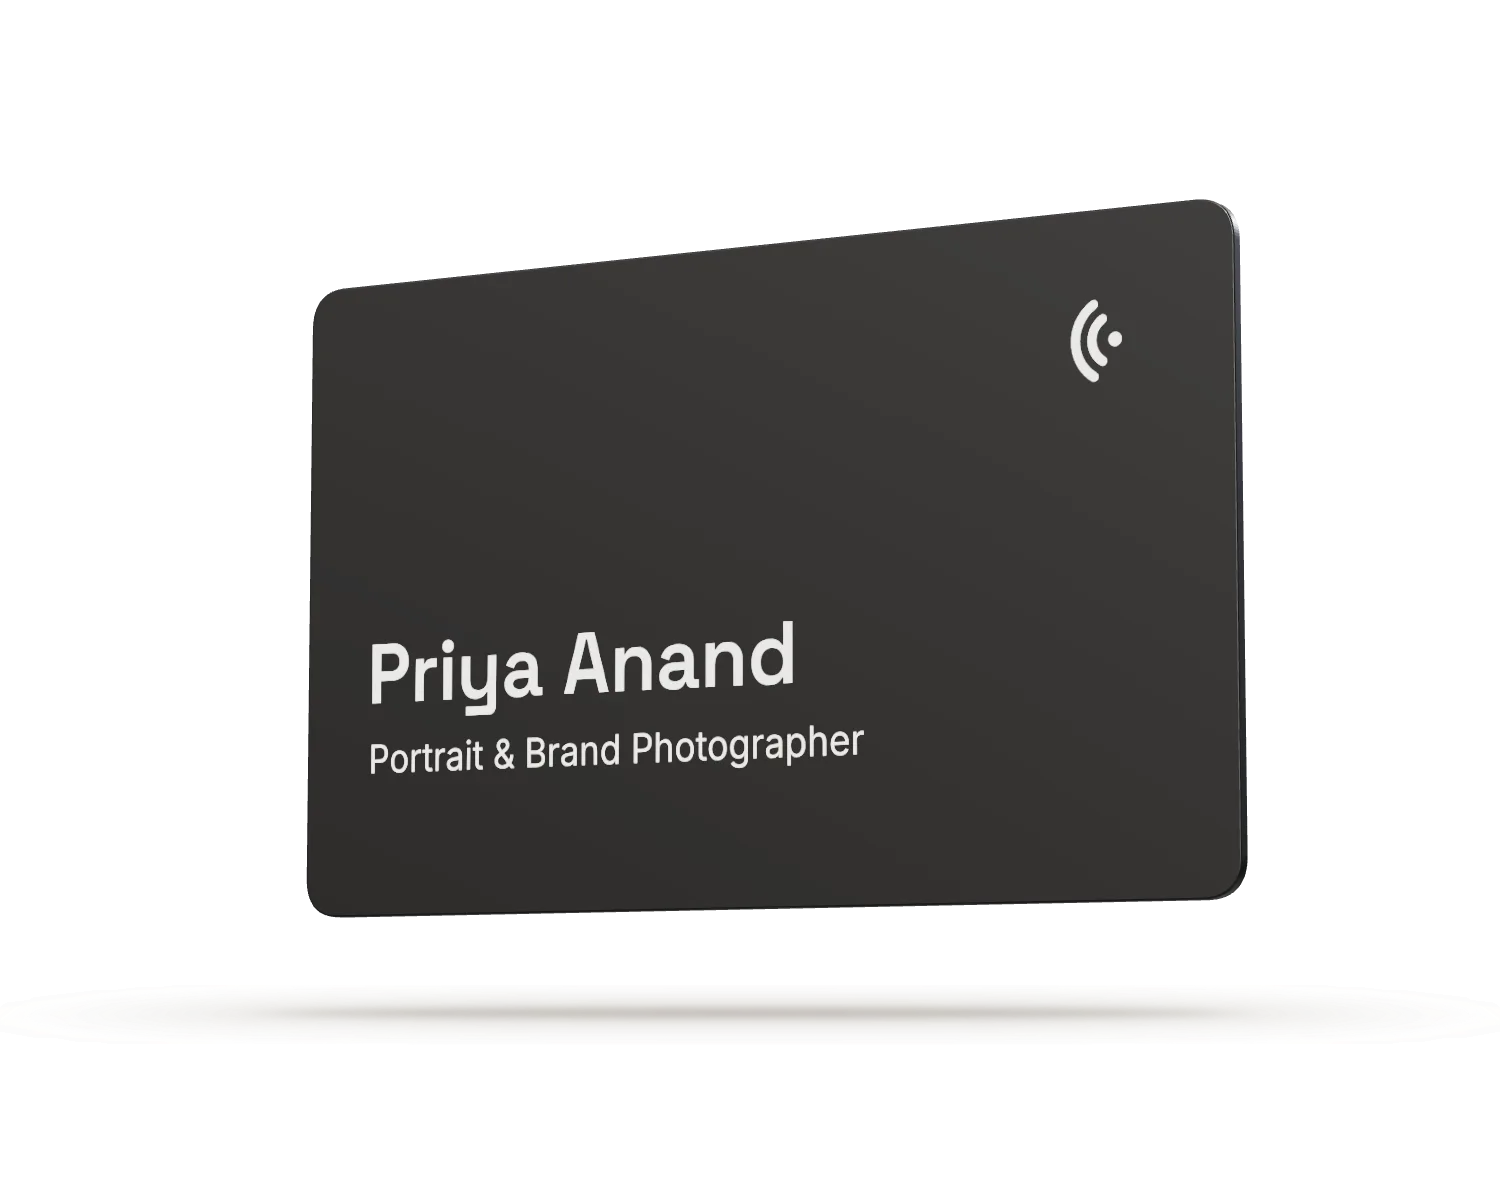
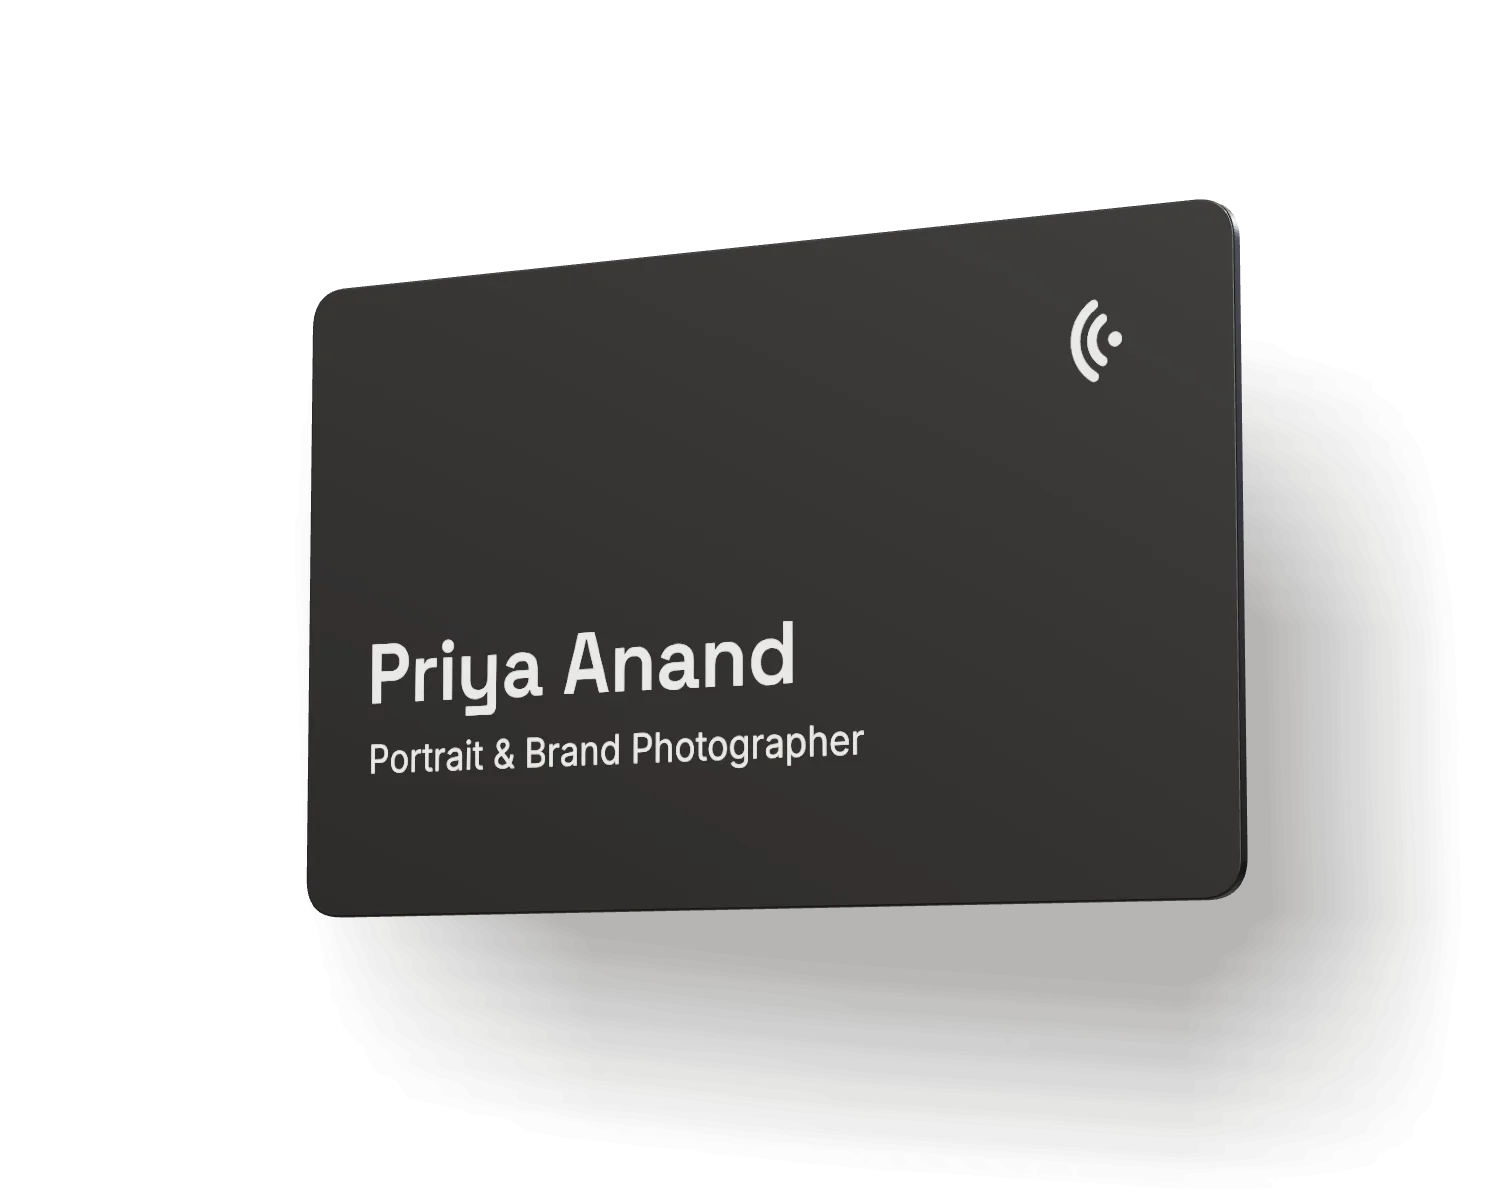
feat(hero): moving fabric shadows across the hero, real cast shadow for the card
- FabricShade: light through a sheer curtain over the whole hero, a small
  plain-WebGL shader (quarter resolution, 30 fps, paused off screen) with
  a matching still that paints first; replaces the leaf shadow
- The hero runs up behind the navbar, which is see-through only at the
  top of the homepage
- The 3D card casts a soft shadow on an invisible wall behind it, which
  turns and narrows with the card; replaces the flat line under it and
  the white glow
- Card float-in starts at 1% opacity so it counts as painted at once
  (mobile LCP back to about 1 s)

Claude-Session: https://claude.ai/code/session_01RXhqBJTb3XXQtQqq3tabda

Changed region(s): [[0.184, 0.3392, 0.9507, 0.9558]]

diff --git a/components/marketing/FabricShade.tsx b/components/marketing/FabricShade.tsx
@@ -1,0 +1,150 @@
+"use client";
+
+import { useEffect, useRef, useState } from "react";
+
+/* Light through a sheer curtain, falling across the whole hero: soft folds
+   of shadow that drift and billow slowly and never quite repeat. A still
+   frame (public/home/fabric-shade.webp, rendered from this same shader at
+   START) paints first and is the reduced-motion view; once the page is
+   idle a tiny WebGL shader takes over and keeps it moving. It draws at a
+   fraction of the screen's resolution (the shadows are soft, so upscaling
+   costs nothing visible), at most 30 times a second, and only while the
+   hero is on screen. No three.js: about 2 KB of plain WebGL. */
+
+// Shader time the still was rendered at, so the swap is seamless.
+const START = 40;
+
+const VERT = `attribute vec2 p;void main(){gl_Position=vec4(p,0.,1.);}`;
+
+const FRAG = `precision mediump float;
+uniform vec2 r;
+uniform float t;
+float h(vec2 p){return fract(sin(dot(p,vec2(127.1,311.7)))*43758.5453);}
+float n(vec2 p){vec2 i=floor(p),f=fract(p);f=f*f*(3.-2.*f);
+return mix(mix(h(i),h(i+vec2(1,0)),f.x),mix(h(i+vec2(0,1)),h(i+vec2(1,1)),f.x),f.y);}
+float fbm(vec2 p){float v=0.,a=.5;for(int i=0;i<4;i++){v+=a*n(p);p=p*2.03+vec2(1.7,9.2);a*=.5;}return v;}
+void main(){
+  vec2 uv=gl_FragCoord.xy/r.y;
+  // The breeze: a slow warp that bends the folds and moves them about.
+  float w=fbm(vec2(uv.x*.9-t*.035,uv.y*.45+t*.012));
+  float w2=fbm(vec2(uv.x*.5+t*.02,uv.y*.3-t*.01)+w);
+  // Folds: long, slightly slanted bands, like a hanging curtain.
+  float x=uv.x+uv.y*.28+w2*1.15;
+  float f=sin(x*6.5+t*.16)*.55+sin(x*11.3-t*.11+w*3.)*.3+sin(x*23.-t*.07+w2*5.)*.15;
+  f=smoothstep(-.1,1.,f);
+  // Broad patches of light and shade drifting over the folds.
+  float l=smoothstep(.3,.75,fbm(uv*.75+vec2(t*.03,-t*.018)));
+  // Mostly light, with the folds and patches going properly dark.
+  float shade=smoothstep(.22,.95,f*.6+(1.-l)*.4);
+  gl_FragColor=vec4(vec3(1.-shade),1.);
+}`;
+
+export default function FabricShade() {
+  const canvasRef = useRef<HTMLCanvasElement>(null);
+  const [live, setLive] = useState(false);
+
+  useEffect(() => {
+    const canvas = canvasRef.current;
+    if (!canvas) return;
+    if (window.matchMedia("(prefers-reduced-motion: reduce)").matches) return;
+
+    let cancelled = false;
+    let raf = 0;
+    let visible = true;
+    const cleanups: (() => void)[] = [];
+
+    const boot = () => {
+      if (cancelled) return;
+      const gl = canvas.getContext("webgl", { alpha: false, antialias: false, depth: false, powerPreference: "low-power" });
+      if (!gl) return;
+      const shader = (type: number, src: string) => {
+        const s = gl.createShader(type)!;
+        gl.shaderSource(s, src);
+        gl.compileShader(s);
+        return s;
+      };
+      const prog = gl.createProgram()!;
+      gl.attachShader(prog, shader(gl.VERTEX_SHADER, VERT));
+      gl.attachShader(prog, shader(gl.FRAGMENT_SHADER, FRAG));
+      gl.linkProgram(prog);
+      if (!gl.getProgramParameter(prog, gl.LINK_STATUS)) return;
+      gl.useProgram(prog);
+      gl.bindBuffer(gl.ARRAY_BUFFER, gl.createBuffer());
+      gl.bufferData(gl.ARRAY_BUFFER, new Float32Array([-1, -1, 3, -1, -1, 3]), gl.STATIC_DRAW);
+      const loc = gl.getAttribLocation(prog, "p");
+      gl.enableVertexAttribArray(loc);
+      gl.vertexAttribPointer(loc, 2, gl.FLOAT, false, 0, 0);
+      const uR = gl.getUniformLocation(prog, "r");
+      const uT = gl.getUniformLocation(prog, "t");
+
+      // A quarter of the CSS size is plenty for shadows this soft.
+      const resize = () => {
+        canvas.width = Math.max(1, Math.round(canvas.clientWidth * 0.25));
+        canvas.height = Math.max(1, Math.round(canvas.clientHeight * 0.25));
+        gl.viewport(0, 0, canvas.width, canvas.height);
+      };
+      resize();
+      const ro = new ResizeObserver(resize);
+      ro.observe(canvas);
+      cleanups.push(() => ro.disconnect());
+
+      let t = START;
+      let last = performance.now();
+      let lastDraw = 0;
+      const draw = () => {
+        gl.uniform2f(uR, canvas.width, canvas.height);
+        gl.uniform1f(uT, t);
+        gl.drawArrays(gl.TRIANGLES, 0, 3);
+      };
+      const tick = (now: number) => {
+        raf = requestAnimationFrame(tick);
+        t += Math.min((now - last) / 1000, 0.1);
+        last = now;
+        if (now - lastDraw < 33) return;
+        lastDraw = now;
+        draw();
+      };
+      const sync = () => {
+        cancelAnimationFrame(raf);
+        if (visible && !document.hidden) {
+          last = performance.now();
+          raf = requestAnimationFrame(tick);
+        }
+      };
+      draw();
+      setLive(true);
+      sync();
+
+      const io = new IntersectionObserver(([e]) => {
+        visible = e.isIntersecting;
+        sync();
+      });
+      io.observe(canvas);
+      document.addEventListener("visibilitychange", sync);
+      cleanups.push(() => {
+        io.disconnect();
+        document.removeEventListener("visibilitychange", sync);
+        cancelAnimationFrame(raf);
+      });
+    };
+
+    const go = () => (window.requestIdleCallback ?? ((cb: () => void) => window.setTimeout(cb, 300)))(boot, { timeout: 3000 });
+    if (document.readyState === "complete") go();
+    else window.addEventListener("load", go, { once: true });
+
+    return () => {
+      cancelled = true;
+      window.removeEventListener("load", go);
+      cleanups.forEach((c) => c());
+    };
+  }, []);
+
+  return (
+    <div aria-hidden className="fabric-shade pointer-events-none absolute inset-0">
+      <canvas
+        ref={canvasRef}
+        className={`h-full w-full transition-opacity duration-1000 ${live ? "opacity-100" : "opacity-0"}`}
+      />
+    </div>
+  );
+}

diff --git a/components/marketing/Hero.tsx b/components/marketing/Hero.tsx
@@ -2,6 +2,7 @@ import { preload } from "react-dom";
 import { Check } from "lucide-react";
 import Button from "@/components/ui/Button";
 import Card3D from "@/components/marketing/card3d/Card3D";
+import FabricShade from "@/components/marketing/FabricShade";
 import { CARD_VARIANTS } from "@/lib/pricing";
 
 const FROM_PRICE = Math.min(...CARD_VARIANTS.map((v) => v.price)).toLocaleString("en-IN");
@@ -9,19 +10,20 @@ const FROM_PRICE = Math.min(...CARD_VARIANTS.map((v) => v.price)).toLocaleString
 const FACTS = [`From ₹${FROM_PRICE}, one payment`, "Free delivery in 5 to 7 days", "Works with iPhone and Android"];
 
 /* First screen: what it is and the one action on the left; the card itself
-   on the right, turning slowly under a soft studio light, with the shadow
-   of a leafy branch drifting across the wall behind it. On load the card
-   floats up into place out of a blur (CSS, on its still, so it plays on the
-   first paint); the live 3D scene takes over once the page is idle. The
-   hero stops short of the fold so the next section's band peeks in. */
+   on the right, turning slowly and casting a soft shadow on the wall
+   behind it, while light through a sheer curtain drifts across the whole
+   hero (it runs up behind the see-through navigation bar too). On load the
+   card floats up into place out of a blur (CSS, on its still, so it plays
+   on the first paint); the live 3D scene takes over once the page is idle.
+   The hero stops short of the fold so the next section's band peeks in. */
 export default function Hero() {
-  // The leaf shadow is a CSS background, which the browser would otherwise
-  // find only after the stylesheet; it covers the hero, so it counts as the
-  // page's largest paint. It's 8 KB.
-  preload("/home/hero-shade.webp", { as: "image", fetchPriority: "high" });
+  // The fabric shadow's still is a CSS background, which the browser would
+  // otherwise find only after the stylesheet; it covers the hero, so it
+  // counts as the page's largest paint. It's 4 KB.
+  preload("/home/fabric-shade.webp", { as: "image", fetchPriority: "high" });
   return (
-    <section id="hero" className="relative overflow-clip">
-      <div aria-hidden className="hero-shade pointer-events-none absolute inset-0" />
+    <section id="hero" className="relative -mt-16 overflow-clip pt-16 md:-mt-[4.5rem] md:pt-[4.5rem]">
+      <FabricShade />
       <div className="container-page relative grid items-center gap-y-4 pt-10 pb-12 md:pt-14 lg:min-h-[calc(100svh-4.5rem-clamp(7rem,20svh,12rem))] lg:grid-cols-12 lg:gap-x-8 lg:py-8">
         <div className="lg:col-span-6">
           <p className="fade-in text-text-secondary mb-5 text-[0.9375rem] font-[500]" style={{ "--i": 0 } as React.CSSProperties}>
@@ -65,9 +67,7 @@ export default function Hero() {
         {/* The card's canvas runs out to the edge of the screen on the right,
             so the turning card has room and is never cut off. */}
         <div className="relative lg:col-span-6 lg:-mr-10 xl:-mr-[min(12rem,max(2.5rem,calc(50vw-35.5rem)))]">
-          {/* Soft studio light behind the card: a pale pool, no colour. */}
-          <div aria-hidden className="hero-light pointer-events-none absolute inset-[-10%]" />
-          <div className="hero-card relative">
+          <div className="hero-card feather relative">
             <Card3D
               poster="/cards/hero-card.webp"
               posterAlt="A matte black Unitouch NFC business card printed with the owner's name, Priya Anand, and her title"

diff --git a/components/marketing/card3d/scene.ts b/components/marketing/card3d/scene.ts
@@ -1,8 +1,16 @@
 /* The hero's 3D Unitouch card. Loaded with a dynamic import only after the
    page is interactive (Card3D.tsx), so none of this is in the first-load
    bundle. */
-import { Group, PerspectiveCamera } from "three";
-import { W, H, buildCard, contactShadow, createStudio, type CardFinish } from "./parts";
+import {
+  DirectionalLight,
+  Group,
+  Mesh,
+  PerspectiveCamera,
+  PlaneGeometry,
+  ShadowMaterial,
+  VSMShadowMap,
+} from "three";
+import { W, buildCard, createStudio, type CardFinish } from "./parts";
 
 export interface CardSceneOptions {
   /** Radians per second of the spin. Negative turns the other way. */
@@ -59,9 +67,30 @@ export function createCardScene(canvas: HTMLCanvasElement, opts: CardSceneOption
   const card = buildCard(renderer, { name, title, finish, url: "https://www.unitouch.in/u/priya" });
   spin.add(card.group);
 
-  const shadow = contactShadow(W * 1.7, H * 0.7);
-  shadow.mesh.position.y = -H / 2 - 0.22;
-  scene.add(shadow.mesh);
+  /* The card's shadow, cast onto a wall a little behind it (an invisible
+     plane that shows only the shadow), from a soft light up and to the
+     left. It turns, narrows and stretches with the card, like a real
+     object in front of a wall. Variance shadow maps at low resolution keep
+     it very soft; the light adds no brightness, only the shadow. */
+  renderer.shadowMap.enabled = true;
+  renderer.shadowMap.type = VSMShadowMap;
+  card.group.traverse((o) => {
+    if ((o as Mesh).isMesh) o.castShadow = true;
+  });
+  const sun = new DirectionalLight(0xffffff, 0);
+  sun.position.set(-1.1, 1.5, 5);
+  sun.castShadow = true;
+  sun.shadow.mapSize.set(256, 256);
+  sun.shadow.radius = 14;
+  sun.shadow.blurSamples = 20;
+  Object.assign(sun.shadow.camera, { left: -3, right: 3, top: 3, bottom: -3, near: 0.5, far: 12 });
+  scene.add(sun);
+  const wallGeo = new PlaneGeometry(40, 40);
+  const wallMat = new ShadowMaterial({ color: 0x1c1712, opacity: 0.3 });
+  const wall = new Mesh(wallGeo, wallMat);
+  wall.position.z = -1.4;
+  wall.receiveShadow = true;
+  scene.add(wall);
 
   const ready = card.ready.then(() => render());
 
@@ -107,10 +136,6 @@ export function createCardScene(canvas: HTMLCanvasElement, opts: CardSceneOption
     const turn = eased(phase) + dragX;
     spin.rotation.y = turn;
     sway.position.y = still ? 0 : Math.sin(t * 0.8) * 0.04;
-    // The shadow tightens when the card turns edge-on and as it lifts.
-    const face = Math.abs(Math.cos(turn));
-    shadow.mesh.scale.set(0.45 + 0.55 * face, 1, 1);
-    shadow.mat.opacity = 0.7 + 0.3 * face - sway.position.y * 2;
     renderer.render(scene, camera);
   }
 
@@ -153,7 +178,9 @@ export function createCardScene(canvas: HTMLCanvasElement, opts: CardSceneOption
       running = false;
       cancelAnimationFrame(frame);
       card.dispose();
-      shadow.dispose();
+      sun.shadow.dispose();
+      wallGeo.dispose();
+      wallMat.dispose();
       studio.dispose();
     },
   };

diff --git a/app/globals.css b/app/globals.css
@@ -261,25 +261,15 @@ p {
 /* Hero arrival: the card floats up into place out of a soft blur, tilting
    back to rest, while its light pool fades in. Opacity and filter only on the
    card's wrapper; the headline (the page's main content) paints at once. */
-.hero-light {
-  background: radial-gradient(closest-side, rgba(255, 255, 255, 0.85), rgba(255, 255, 255, 0) 72%);
-}
-
-/* Sunlight through a branch onto the wall behind the hero: a soft, blurred
-   leaf shadow (a still image, multiplied onto the ground) that sways
-   slowly, as if in a breeze. Transform only, so it costs nothing. */
-.hero-shade {
-  background: url("/home/hero-shade.webp") right top / auto 115% no-repeat;
-  opacity: 0.2;
+/* Light through a sheer curtain across the whole hero (FabricShade.tsx):
+   multiplied onto the ground, so its white is invisible and only the folds
+   of shadow show. The still is laid out exactly as the shader draws it
+   (scaled to the height, from the bottom left), so the live version takes
+   over without a jump. */
+.fabric-shade {
+  background: url("/home/fabric-shade.webp") left bottom / auto 100% no-repeat;
+  opacity: 0.32;
   mix-blend-mode: multiply;
-  transform-origin: 100% 0;
-}
-
-@media (max-width: 1023px) {
-  .hero-shade {
-    background-size: auto 70%;
-    opacity: 0.14;
-  }
 }
 
 @media (prefers-reduced-motion: no-preference) {
@@ -287,28 +277,15 @@ p {
     animation: card-float-in 1600ms var(--ease-expo) 150ms both;
     transform-origin: 50% 80%;
   }
-
-  html.js .hero-light {
-    animation: fade 1800ms var(--ease-out) 100ms both;
-  }
-
-  .hero-shade {
-    animation: leaf-sway 11s ease-in-out infinite alternate;
-  }
 }
 
-@keyframes leaf-sway {
-  from {
-    transform: rotate(-1.2deg) translate3d(0.6%, -0.4%, 0);
-  }
-  to {
-    transform: rotate(1deg) translate3d(-0.8%, 0.6%, 0);
-  }
-}
 
+/* Starts at 1% rather than 0 opacity: browsers don't count a fully
+   transparent paint, so from 0 the card (the hero's largest paint on a
+   phone) would only register once the animation ended. */
 @keyframes card-float-in {
   from {
-    opacity: 0;
+    opacity: 0.01;
     filter: blur(14px);
     transform: perspective(1200px) translate3d(0, 90px, 0) rotateX(22deg) scale(0.92);
   }

diff --git a/components/marketing/Navbar.tsx b/components/marketing/Navbar.tsx
@@ -26,6 +26,17 @@ export default function Navbar() {
   const [menuOpen, setMenuOpen] = useState(false);
   // null = not checked yet: render neither state, so nothing flashes.
   const [signedIn, setSignedIn] = useState<boolean | null>(null);
+  /* At the very top of the homepage the bar is see-through, so the hero's
+     moving shadows run up behind it; it turns solid once you scroll. */
+  const [atTop, setAtTop] = useState(true);
+
+  useEffect(() => {
+    if (!onHome) return;
+    const update = () => setAtTop(window.scrollY < 8);
+    update();
+    window.addEventListener("scroll", update, { passive: true });
+    return () => window.removeEventListener("scroll", update);
+  }, [onHome]);
 
   useEffect(() => {
     const supabase = createSupabaseBrowserClient();
@@ -74,7 +85,11 @@ export default function Navbar() {
     );
 
   return (
-    <header className="bg-bg-base sticky top-0 z-50">
+    <header
+      className={`sticky top-0 z-50 transition-colors duration-500 ${
+        onHome && atTop && !menuOpen ? "bg-transparent" : "bg-bg-base"
+      }`}
+    >
       <div className="container-page flex h-16 items-center justify-between gap-6 md:h-[4.5rem]">
         <Link href="/" onClick={handleLogoClick} className="flex items-center gap-2.5" aria-label="Unitouch home">
           <Image src="/brand/u-mark-ink.png" alt="" width={22} height={25} priority />

diff --git a/CLAUDE.md b/CLAUDE.md
@@ -71,10 +71,13 @@ fail or are skipped, and everything else works.
 
 ## What's built
 
-**Marketing homepage** (`app/(marketing)/page.tsx`): Hero (3D card, a
-blurred leaf shadow `public/home/hero-shade.webp` swaying on the wall
-behind it, preloaded because it's the LCP element; the hero stops short of
-the fold so HowItWorks' darker rounded band peeks in), HowItWorks (three
+**Marketing homepage** (`app/(marketing)/page.tsx`): Hero (3D card that
+casts a soft shadow on an invisible wall behind it; full-bleed moving
+"light through a sheer curtain" shadows from `FabricShade.tsx`, a tiny
+plain-WebGL shader whose still `public/home/fabric-shade.webp` paints first
+and is preloaded because it's the LCP element; the hero runs up behind the
+navbar, which is see-through only at the top of the homepage; it stops
+short of the fold so HowItWorks' darker rounded band peeks in), HowItWorks (three
 equal numbered steps), PhoneStory (sticky 3D iPhone; the scene follows the
 scroll on a critically damped spring, the canvas has feathered edges
 (`.feather`), the "Contact saved" note grows out of the Dynamic Island, and
